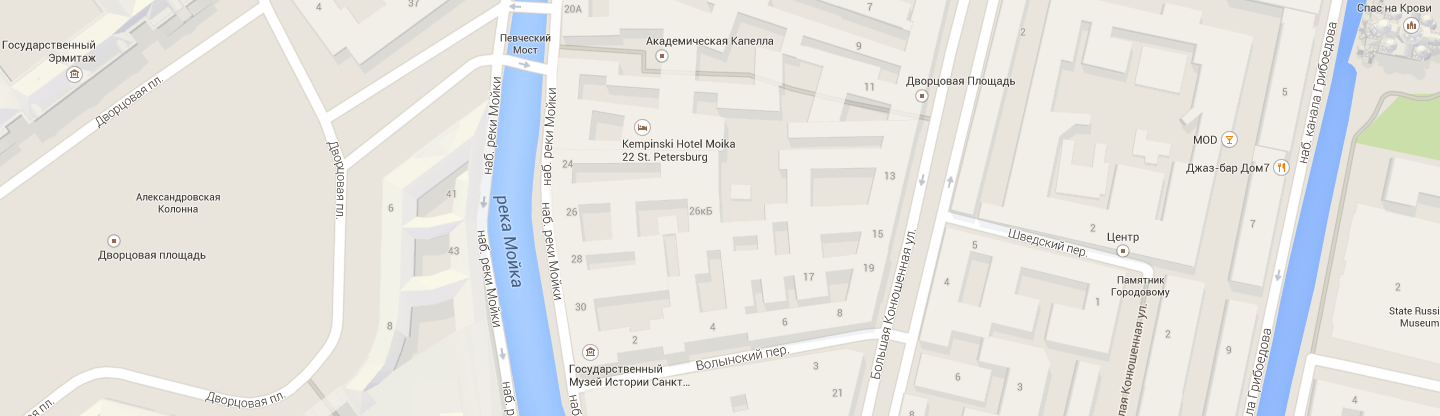
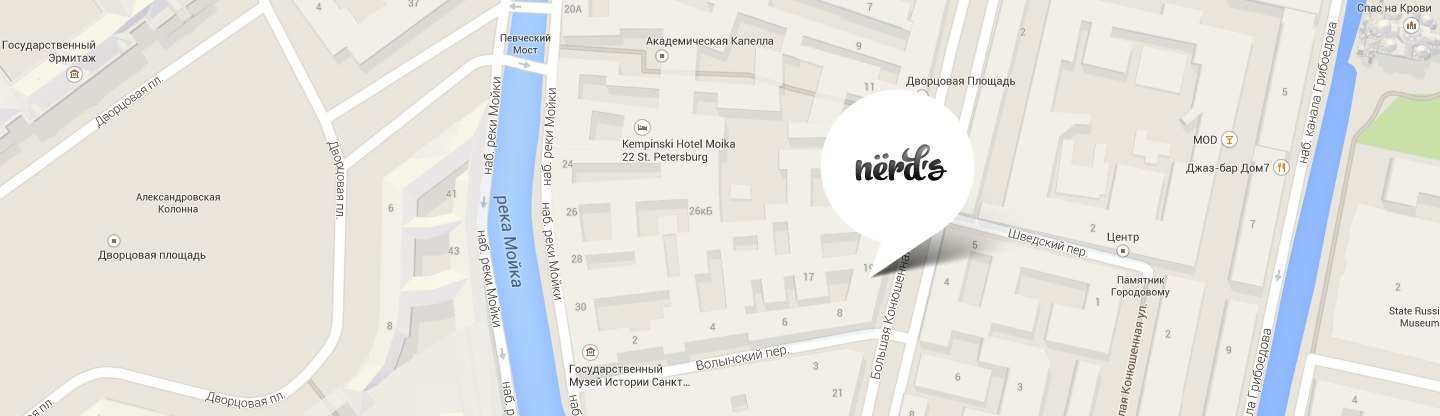
Сетки 3

Changed region(s): [[0.5625, 0.2188, 0.6875, 0.6562]]

diff --git a/css/style.css b/css/style.css
@@ -59,6 +59,9 @@ h2 {
   	float: right;
  	width: 760px;
  }
+ .title-right img {
+	display: block;
+ }
  .feature-item {
 	float: left;
 	width: 300px;
@@ -98,15 +101,29 @@ h2 {
  .logo-item:last-child {
 	margin-right: 0;
 }
-.footer {
+ .index-content {
+	background: #000000 url("https://pp.vk.me/c637931/v637931771/15393/PLF2VmO--PM.jpg") no-repeat;
+	width: 1440px;
+	height: 416px;
+	margin-top: 80px;
+}
+ .map-left {
+	width: 220px;
+	height: 210px;
+	background-color: #ffffff;
+	padding: 50px;
+	margin-top: 55px;
+	margin-left: 85px;
+ }
+ .footer {
 	margin-top: 70px;
 }
-.footer-icon {
+ .footer-icon {
 	float: left;
 	width: 260px;
 	margin-right: 140px;
 }
-.footer-friendship {
+ .footer-friendship {
 	float: right;
 	width: 560px;
 	margin-right: 200px;

diff --git a/index.html b/index.html
@@ -117,18 +117,15 @@
 		  </div>
         </div>
 	    <hr>
-	    <div class="index-content">
-	      <div class="map">
-		    <img src="img/map-marker.png" width="230" height="190" alt="Nёrd's marker">
-          </div>
-          <div class="map-left">		  
+	    <div class="index-content clearfix">
+		  <div class="map-left">
 		    <b>Nerds design studio</b>
             <p>191186, Санкт-Петербург,<br>
                ул. Б. Конюшенная, д. 19/8</p>
             <p>тел.+7(812)275-75-75</p>
             <a href="#">Напишите нам!</a>
 		  </div>
-	    </div>
+		</div>
 	  </div>
     </main>
     <footer class="footer">
